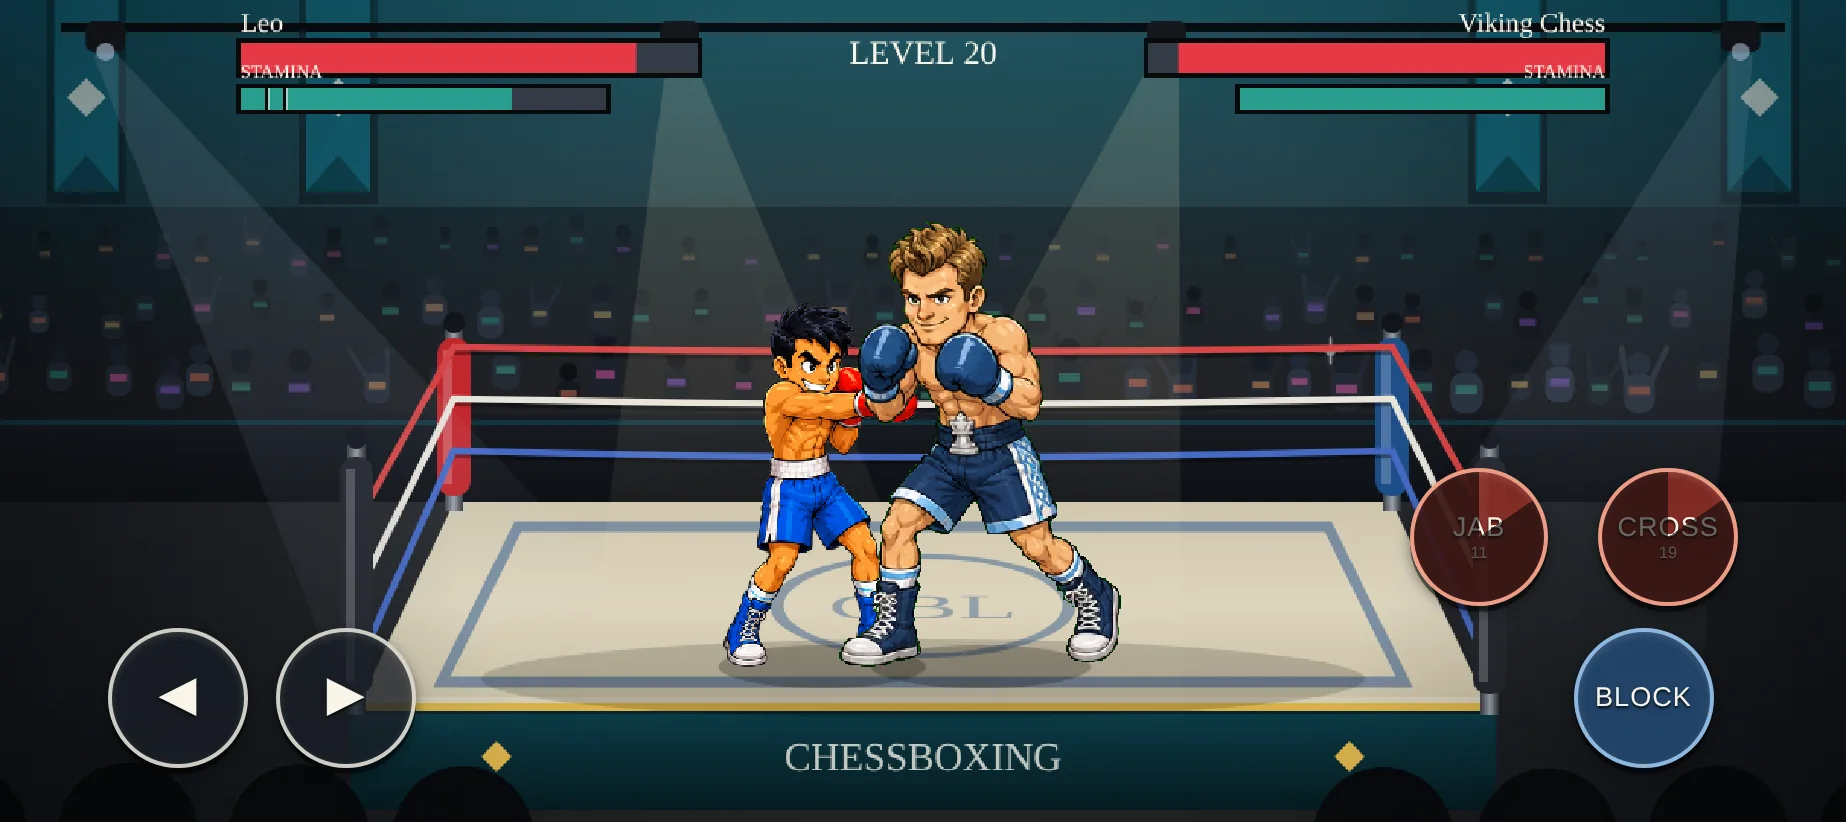
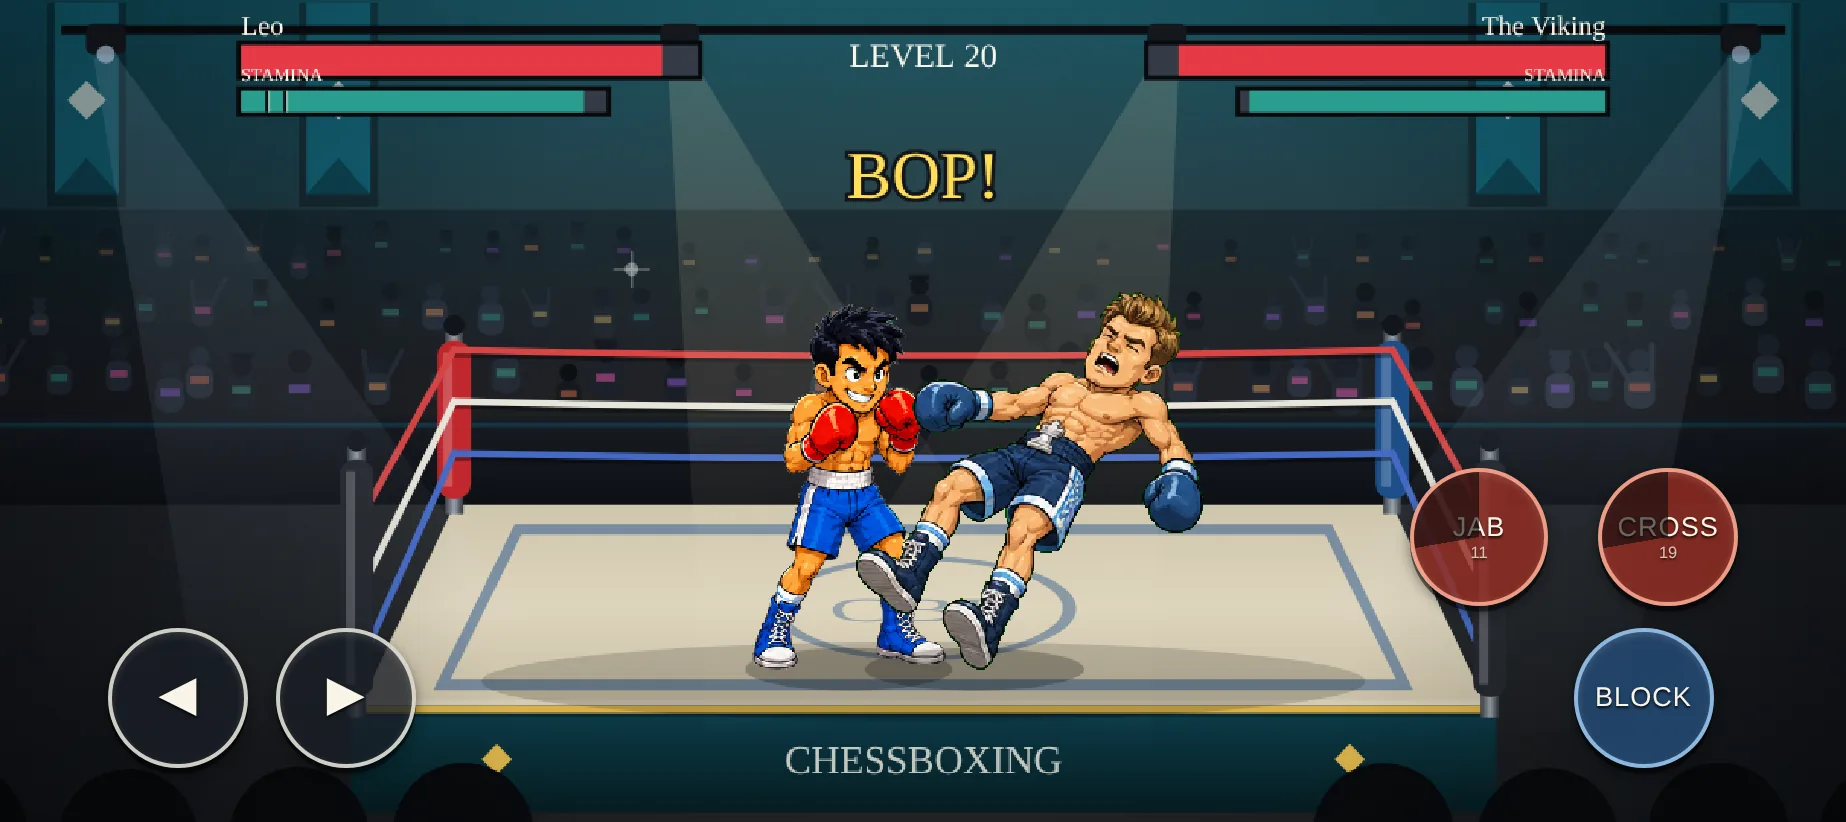
Rename Viking Chess to The Viking
The fighter's name pointed at a real player. The opponents list, the
strength chart, the shadow image and both screenshots that show him
(fight-viking and versus-late, recaptured from the game) now say The Viking.

Claude-Session: https://claude.ai/code/session_01FRdXUoDweQ1LpRAED76ymy

diff --git a/index.html b/index.html
@@ -210,7 +210,7 @@
       </div>
       <figure class="ramp" aria-label="Chart: opponent strength rises with every level">
         <ol class="ramp-bars">
-<li style="--h:6.7%" title="1. Benny Breadstick"><span class="ramp-bar"></span></li><li style="--h:11.1%" title="2. Pizza Palooka"><span class="ramp-bar"></span></li><li style="--h:16.7%" title="3. Nonna"><span class="ramp-bar"></span></li><li style="--h:22.2%" title="4. Tito Teethy"><span class="ramp-bar"></span></li><li style="--h:27.8%" title="5. Mr Mousy"><span class="ramp-bar"></span></li><li style="--h:33.3%" title="6. Miss Teacher"><span class="ramp-bar"></span></li><li style="--h:37.8%" title="7. Carla Cannon Mitts"><span class="ramp-bar"></span></li><li style="--h:42.2%" title="8. Tito Tacos"><span class="ramp-bar"></span></li><li style="--h:46.7%" title="9. Tony Tap Dance"><span class="ramp-bar"></span></li><li style="--h:51.1%" title="10. Mike Punch"><span class="ramp-bar"></span></li><li style="--h:55.6%" title="11. Mama Chambona"><span class="ramp-bar"></span></li><li style="--h:60.0%" title="12. Professor Punch"><span class="ramp-bar"></span></li><li style="--h:64.4%" title="13. Glove Invader"><span class="ramp-bar"></span></li><li style="--h:68.9%" title="14. Lazy Sloth"><span class="ramp-bar"></span></li><li style="--h:72.2%" title="15. The Youtuber"><span class="ramp-bar"></span></li><li style="--h:76.7%" title="16. Lunchbox King"><span class="ramp-bar"></span></li><li style="--h:80.0%" title="17. Mr Coconuts"><span class="ramp-bar"></span></li><li style="--h:82.2%" title="18. Ringo Bonasera"><span class="ramp-bar"></span></li><li style="--h:85.6%" title="19. Giant Panda"><span class="ramp-bar"></span></li><li style="--h:88.9%" title="20. Viking Chess"><span class="ramp-bar"></span></li><li style="--h:91.1%" title="21. Giant Marshmallow"><span class="ramp-bar"></span></li><li style="--h:100.0%" title="22. Emma the Almighty"><span class="ramp-bar"></span></li>
+<li style="--h:6.7%" title="1. Benny Breadstick"><span class="ramp-bar"></span></li><li style="--h:11.1%" title="2. Pizza Palooka"><span class="ramp-bar"></span></li><li style="--h:16.7%" title="3. Nonna"><span class="ramp-bar"></span></li><li style="--h:22.2%" title="4. Tito Teethy"><span class="ramp-bar"></span></li><li style="--h:27.8%" title="5. Mr Mousy"><span class="ramp-bar"></span></li><li style="--h:33.3%" title="6. Miss Teacher"><span class="ramp-bar"></span></li><li style="--h:37.8%" title="7. Carla Cannon Mitts"><span class="ramp-bar"></span></li><li style="--h:42.2%" title="8. Tito Tacos"><span class="ramp-bar"></span></li><li style="--h:46.7%" title="9. Tony Tap Dance"><span class="ramp-bar"></span></li><li style="--h:51.1%" title="10. Mike Punch"><span class="ramp-bar"></span></li><li style="--h:55.6%" title="11. Mama Chambona"><span class="ramp-bar"></span></li><li style="--h:60.0%" title="12. Professor Punch"><span class="ramp-bar"></span></li><li style="--h:64.4%" title="13. Glove Invader"><span class="ramp-bar"></span></li><li style="--h:68.9%" title="14. Lazy Sloth"><span class="ramp-bar"></span></li><li style="--h:72.2%" title="15. The Youtuber"><span class="ramp-bar"></span></li><li style="--h:76.7%" title="16. Lunchbox King"><span class="ramp-bar"></span></li><li style="--h:80.0%" title="17. Mr Coconuts"><span class="ramp-bar"></span></li><li style="--h:82.2%" title="18. Ringo Bonasera"><span class="ramp-bar"></span></li><li style="--h:85.6%" title="19. Giant Panda"><span class="ramp-bar"></span></li><li style="--h:88.9%" title="20. The Viking"><span class="ramp-bar"></span></li><li style="--h:91.1%" title="21. Giant Marshmallow"><span class="ramp-bar"></span></li><li style="--h:100.0%" title="22. Emma the Almighty"><span class="ramp-bar"></span></li>
         </ol>
         <figcaption><span>Level 1</span><span>Opponent strength by level</span><span>Level 22</span></figcaption>
       </figure>
@@ -219,7 +219,7 @@
     <div class="trio fight-shots">
       <figure class="shot"><button type="button" class="shot-btn" data-full="img/shots/fight-pizza.webp" data-caption="Pizza Palooka is big, but he can be hit." aria-label="Enlarge screenshot: Pizza Palooka is big, but he can be hit."><img src="img/shots/fight-pizza.webp" alt="Leo trading punches with Pizza Palooka, with the on-screen controls" width="1846" height="822" loading="lazy"></button><figcaption>Pizza Palooka is big, but he can be hit.</figcaption></figure>
       <figure class="shot"><button type="button" class="shot-btn" data-full="img/shots/fight-sloth-a.webp" data-caption="Lazy Sloth is slow, so make the hits count." aria-label="Enlarge screenshot: Lazy Sloth is slow, so make the hits count."><img src="img/shots/fight-sloth-a.webp" alt="Maya landing a punch on Lazy Sloth, who is seeing stars" width="1846" height="822" loading="lazy"></button><figcaption>Lazy Sloth is slow, so make the hits count.</figcaption></figure>
-      <figure class="shot"><button type="button" class="shot-btn" data-full="img/shots/fight-viking.webp" data-caption="Late in the ladder, Viking Chess." aria-label="Enlarge screenshot: Late in the ladder, Viking Chess."><img src="img/shots/fight-viking.webp" alt="Leo in a clinch with Viking Chess, a late opponent" width="1846" height="822" loading="lazy"></button><figcaption>Late in the ladder, Viking Chess.</figcaption></figure>
+      <figure class="shot"><button type="button" class="shot-btn" data-full="img/shots/fight-viking.webp" data-caption="Late in the ladder, The Viking." aria-label="Enlarge screenshot: Late in the ladder, The Viking."><img src="img/shots/fight-viking.webp" alt="Leo lands a punch on The Viking, a late opponent" width="1846" height="822" loading="lazy"></button><figcaption>Late in the ladder, The Viking.</figcaption></figure>
     </div>
   </div>
 </section>
@@ -249,7 +249,7 @@
 <li class="boxer" style="--arena:#3a0ca3"><span class="rung">17</span><img class="shadow" src="img/boxers/mr-coconuts-shadow.webp" alt="Shadow of Mr Coconuts, opponent 17" height="360" loading="lazy"><h4>Mr Coconuts</h4><div class="tags"><span class="tag">All-rounder</span><span class="tag">Slippery</span></div><div class="bars" aria-hidden="true"><div class="bar strength"><span class="bar-label">str</span><span class="bar-track"><span class="bar-fill" style="width:73%"></span></span></div><div class="bar stamina"><span class="bar-label">sta</span><span class="bar-track"><span class="bar-fill" style="width:73%"></span></span></div><div class="bar speed"><span class="bar-label">spe</span><span class="bar-track"><span class="bar-fill" style="width:93%"></span></span></div></div></li>
 <li class="boxer" style="--arena:#28527a"><span class="rung">18</span><img class="shadow" src="img/boxers/ringo-bonasera-shadow.webp" alt="Shadow of Ringo Bonasera, opponent 18" height="360" loading="lazy"><h4>Ringo Bonasera</h4><div class="tags"><span class="tag">Heavy hitter</span><span class="tag">Relentless</span></div><div class="bars" aria-hidden="true"><div class="bar strength"><span class="bar-label">str</span><span class="bar-track"><span class="bar-fill" style="width:100%"></span></span></div><div class="bar stamina"><span class="bar-label">sta</span><span class="bar-track"><span class="bar-fill" style="width:93%"></span></span></div><div class="bar speed"><span class="bar-label">spe</span><span class="bar-track"><span class="bar-fill" style="width:53%"></span></span></div></div></li>
 <li class="boxer" style="--arena:#3d3d47"><span class="rung">19</span><img class="shadow" src="img/boxers/giant-panda-shadow.webp" alt="Shadow of Giant Panda, opponent 19" height="360" loading="lazy"><h4>Giant Panda</h4><div class="tags"><span class="tag">All-rounder</span><span class="tag">Turtles up</span></div><div class="bars" aria-hidden="true"><div class="bar strength"><span class="bar-label">str</span><span class="bar-track"><span class="bar-fill" style="width:93%"></span></span></div><div class="bar stamina"><span class="bar-label">sta</span><span class="bar-track"><span class="bar-fill" style="width:97%"></span></span></div><div class="bar speed"><span class="bar-label">spe</span><span class="bar-track"><span class="bar-fill" style="width:67%"></span></span></div></div></li>
-<li class="boxer" style="--arena:#0f4c5c"><span class="rung">20</span><img class="shadow" src="img/boxers/viking-chess-shadow.webp" alt="Shadow of Viking Chess, opponent 20" height="360" loading="lazy"><h4>Viking Chess</h4><div class="tags"><span class="tag">All-rounder</span><span class="tag">Slippery</span></div><div class="bars" aria-hidden="true"><div class="bar strength"><span class="bar-label">str</span><span class="bar-track"><span class="bar-fill" style="width:93%"></span></span></div><div class="bar stamina"><span class="bar-label">sta</span><span class="bar-track"><span class="bar-fill" style="width:93%"></span></span></div><div class="bar speed"><span class="bar-label">spe</span><span class="bar-track"><span class="bar-fill" style="width:80%"></span></span></div></div></li>
+<li class="boxer" style="--arena:#0f4c5c"><span class="rung">20</span><img class="shadow" src="img/boxers/the-viking-shadow.webp" alt="Shadow of The Viking, opponent 20" height="360" loading="lazy"><h4>The Viking</h4><div class="tags"><span class="tag">All-rounder</span><span class="tag">Slippery</span></div><div class="bars" aria-hidden="true"><div class="bar strength"><span class="bar-label">str</span><span class="bar-track"><span class="bar-fill" style="width:93%"></span></span></div><div class="bar stamina"><span class="bar-label">sta</span><span class="bar-track"><span class="bar-fill" style="width:93%"></span></span></div><div class="bar speed"><span class="bar-label">spe</span><span class="bar-track"><span class="bar-fill" style="width:80%"></span></span></div></div></li>
 <li class="boxer" style="--arena:#5a6b8c"><span class="rung">21</span><img class="shadow" src="img/boxers/giant-marshmallow-shadow.webp" alt="Shadow of Giant Marshmallow, opponent 21" height="360" loading="lazy"><h4>Giant Marshmallow</h4><div class="tags"><span class="tag">All-rounder</span><span class="tag">Turtles up</span></div><div class="bars" aria-hidden="true"><div class="bar strength"><span class="bar-label">str</span><span class="bar-track"><span class="bar-fill" style="width:97%"></span></span></div><div class="bar stamina"><span class="bar-label">sta</span><span class="bar-track"><span class="bar-fill" style="width:100%"></span></span></div><div class="bar speed"><span class="bar-label">spe</span><span class="bar-track"><span class="bar-fill" style="width:77%"></span></span></div></div></li>
 <li class="boxer boss" style="--arena:#5a3a6b"><span class="rung">22</span><img class="shadow" src="img/boxers/emma-the-almighty-shadow.webp" alt="Shadow of Emma the Almighty, opponent 22" height="360" loading="lazy"><h4>Emma the Almighty</h4><div class="tags"><span class="tag">Final boss</span><span class="tag">Maxed out</span></div><div class="bars" aria-hidden="true"><div class="bar strength"><span class="bar-label">str</span><span class="bar-track"><span class="bar-fill" style="width:100%"></span></span></div><div class="bar stamina"><span class="bar-label">sta</span><span class="bar-track"><span class="bar-fill" style="width:100%"></span></span></div><div class="bar speed"><span class="bar-label">spe</span><span class="bar-track"><span class="bar-fill" style="width:100%"></span></span></div></div></li>
     </ol>
@@ -263,7 +263,7 @@
     <h2>See it in action</h2>
     <div class="gallery-grid">
       <figure class="shot"><button type="button" class="shot-btn" data-full="img/shots/title.webp" data-caption="The title screen." aria-label="Enlarge screenshot: The title screen."><img src="img/shots/title.webp" alt="The Chessboxing title screen with the two playable boxers" width="1846" height="822" loading="lazy"></button><figcaption>The title screen.</figcaption></figure>
-      <figure class="shot"><button type="button" class="shot-btn" data-full="img/shots/versus-late.webp" data-caption="Level 20. The stats are getting serious." aria-label="Enlarge screenshot: Level 20. The stats are getting serious."><img src="img/shots/versus-late.webp" alt="The versus screen before the fight with Viking Chess" width="1846" height="822" loading="lazy"></button><figcaption>Level 20. The stats are getting serious.</figcaption></figure>
+      <figure class="shot"><button type="button" class="shot-btn" data-full="img/shots/versus-late.webp" data-caption="Level 20. The stats are getting serious." aria-label="Enlarge screenshot: Level 20. The stats are getting serious."><img src="img/shots/versus-late.webp" alt="The versus screen before the fight with The Viking" width="1846" height="822" loading="lazy"></button><figcaption>Level 20. The stats are getting serious.</figcaption></figure>
       <figure class="shot"><button type="button" class="shot-btn" data-full="img/shots/fight-sloth-b.webp" data-caption="Toe to toe with Lazy Sloth." aria-label="Enlarge screenshot: Toe to toe with Lazy Sloth."><img src="img/shots/fight-sloth-b.webp" alt="Maya and Lazy Sloth trading punches in the middle of the ring" width="1846" height="822" loading="lazy"></button><figcaption>Toe to toe with Lazy Sloth.</figcaption></figure>
       <figure class="shot"><button type="button" class="shot-btn" data-full="img/shots/ko.webp" data-caption="Down she goes. A knockout ends the round." aria-label="Enlarge screenshot: Down she goes. A knockout ends the round."><img src="img/shots/ko.webp" alt="Leo has knocked down Miss Teacher, who lies on the canvas" width="1846" height="822" loading="lazy"></button><figcaption>Down she goes. A knockout ends the round.</figcaption></figure>
       <figure class="shot"><button type="button" class="shot-btn" data-full="img/shots/win.webp" data-caption="Victory, then back to the gym." aria-label="Enlarge screenshot: Victory, then back to the gym."><img src="img/shots/win.webp" alt="The winner screen: Leo wins by knockout with a glove in the air" width="1846" height="822" loading="lazy"></button><figcaption>Victory, then back to the gym.</figcaption></figure>
